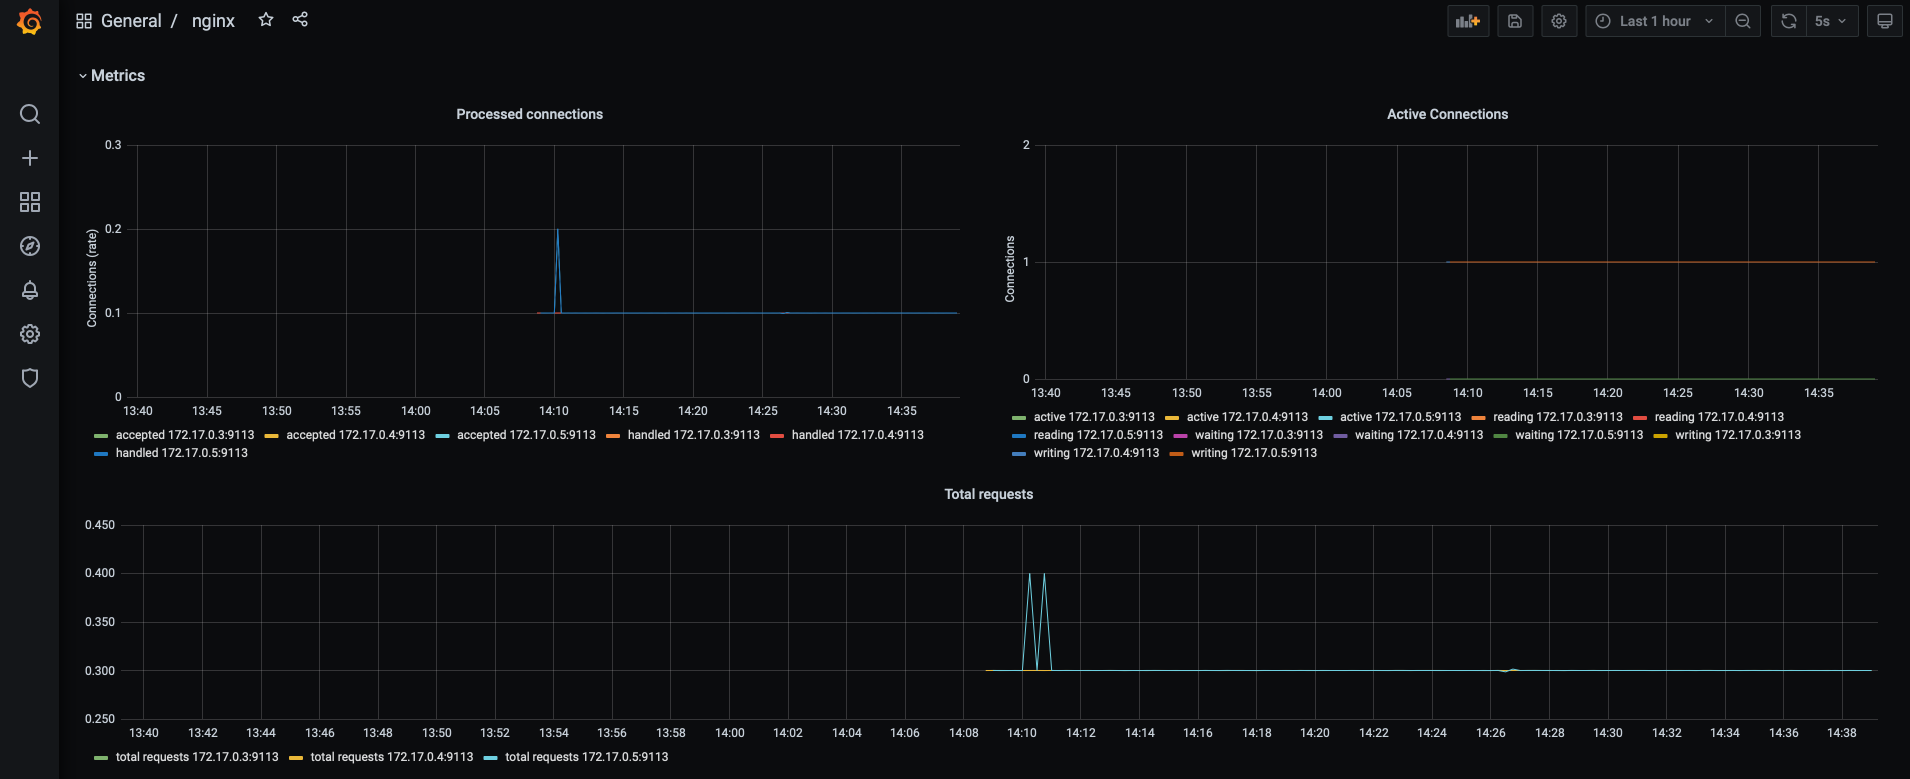
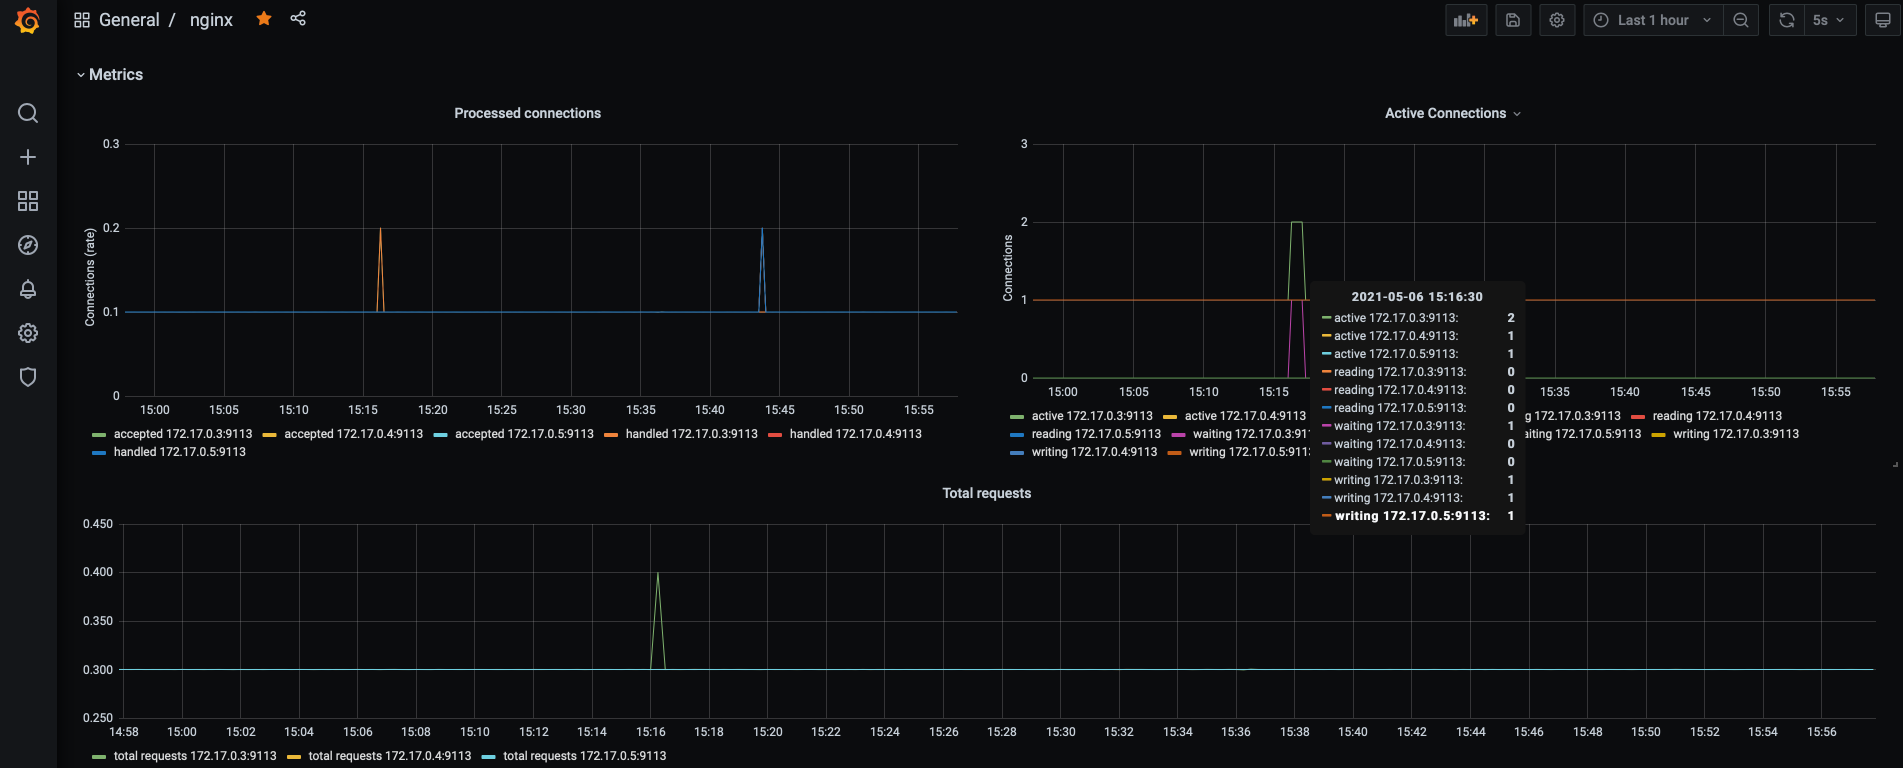
change grafana.png and README.md

diff --git a/README.md b/README.md
@@ -566,3 +566,39 @@ templating/frontend	0.1.0        	1.16.0     	A Helm chart for Kubernetes
 ### Kustomize
 
 Для сервиса *adservice*, разделенного на манифесты `adservice-deployment.yaml` и `adservice-service.yaml`, были написаны `kustomization.yaml` для установки в два окружения: **dev** (namespace hipster-shop) и **prod** (namespace hipster-shop-prod).
+
+## Мониторинг сервиса в кластере k8s
+
+Был создан кастомный образ *nginx*, и загружен в Docker Hub.  
+Был развернут *kube-prometheus* (release-0.8):
+
+```
+kubectl create -f manifests/setup
+kubectl create -f manifests/
+```
+
+Были написаны, и применены:
+
+* `deployment.yaml` и `service.yaml` - для *nginx* и *nginx exporter*;
+* `ingress.yaml` - для доступа к *Prometheus* и *Grafana*, и для тестовых запросов к *nginx*;
+* `servicemonitor.yaml` - для работы *Prometheus service discovery*, и мониторинга *nginx*.
+
+```
+$ curl 'http://nginx-monitoring.172.16.18.200.nip.io/basic_status'
+Active connections: 2
+server accepts handled requests
+ 921 921 2750
+Reading: 0 Writing: 1 Waiting: 1
+```
+
+```
+http://prometheus.172.16.18.200.nip.io/graph?g0.expr=nginx_connections_accepted&g0.tab=0&g0.stacked=0&g0.range_input=1h
+```
+
+![](kubernetes-monitoring/images/prometheus.png)
+
+```
+http://grafana.172.16.18.200.nip.io/d/nginx/nginx?orgId=1&refresh=5s
+```
+
+![](kubernetes-monitoring/images/grafana.png)
